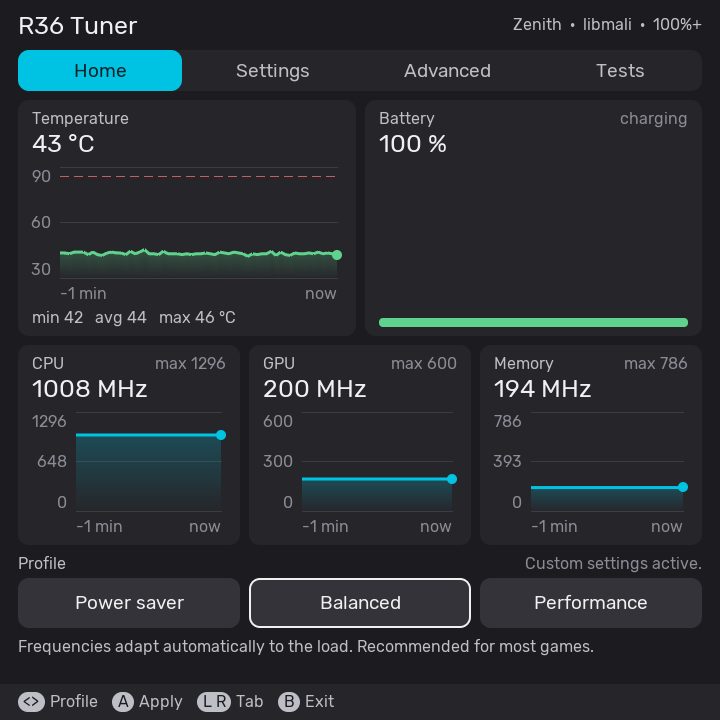
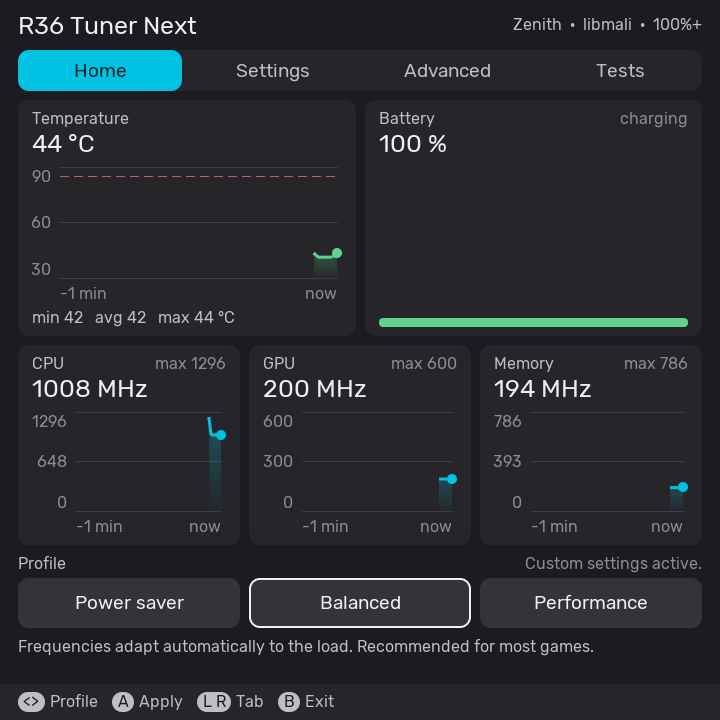
R36 Tuner Next: this image includes a new version that is not released yet; new Tuner screenshots (R36 Tuner Next header) and the Battery & performance menu with its row

diff --git a/README.md b/README.md
@@ -32,8 +32,8 @@ which is a fork of [ROCKNIX](https://github.com/ROCKNIX), developed and measured
   TechDweeb.
 - **Fast suspend:** the console sleeps in **2.3 s** and wakes in **4.3 s**.
 - **Battery screen:** charge, current use, history and what used the most.
-- **R36 Tuner Next** built in: CPU, GPU and RAM clocks, voltage curves, profiles, benchmarks and a stability test, with
-  live graphs. See [R36 Tuner Next](#r36-tuner-next).
+- **R36 Tuner Next** built in, in a **new version that is not released yet**: CPU, GPU and RAM clocks, voltage curves,
+  profiles, benchmarks and a stability test, with live graphs. See [R36 Tuner Next](#r36-tuner-next).
 - **Patched Panfrost (open GPU driver):** 39 % faster than stock Panfrost and close to Arm's libmali when you play.
   libmali stays the default. See [Panfrost vs libmali](#panfrost-vs-libmali).
 - **Performance mode** (off by default): GPU and RAM at full speed while a game runs; Mario Tennis goes from 19.3 to
@@ -46,7 +46,7 @@ which is a fork of [ROCKNIX](https://github.com/ROCKNIX), developed and measured
 
 ## Screenshots
 
-Taken on an R36 Ultra (720x720) running v0.2.0.
+Taken on an R36 Ultra (720x720) running v0.2.0 and v0.2.1.
 
 **zfront: Zenith Minimal and Zenith Next**
 
@@ -59,7 +59,7 @@ Taken on an R36 Ultra (720x720) running v0.2.0.
 <tr>
 <td align="center"><img src="docs/images/zfront-menu.png" width="280"/><br/><sub>Main menu</sub></td>
 <td align="center"><img src="docs/images/zfront-battery.png" width="280"/><br/><sub>Battery and power</sub></td>
-<td align="center"><img src="docs/images/zfront-battery-performance.png" width="280"/><br/><sub>Battery &amp; performance settings</sub></td>
+<td align="center"><img src="docs/images/zfront-battery-performance.png" width="280"/><br/><sub>Battery &amp; performance settings, with R36 Tuner Next</sub></td>
 </tr>
 <tr>
 <td align="center"><img src="docs/images/zfront-next-light.png" width="280"/><br/><sub>Zenith Next, light</sub></td>
@@ -148,7 +148,14 @@ Measured on an **R36 Ultra**, one to three runs per point:
 
 ### R36 Tuner Next
 
-R36 Tuner Next opens from the Tools menu. Its home page shows live graphs of
+The Tuner in this image is **a new version of R36 Tuner Next that has not been released yet**: the public repository
+([zenmode-adri/r36-tuner-next](https://github.com/zenmode-adri/r36-tuner-next)) is still at v2.0. Since v2.0 the interface
+was rewritten as one program (33 files changed, about 6,300 lines added and 3,650 removed): a grid layout checked at every
+supported resolution, live graphs with a scale and the minimum, average and maximum, one voltage-curve editor per
+component, recovery steps for a PC with the SD card, and a safety net so that a power cut, a failed write or a modified
+device tree no longer leave the console unprotected after a voltage change.
+
+R36 Tuner Next opens from the Tools menu (and from `Battery & performance`). Its home page shows live graphs of
 temperature and of the CPU, GPU and RAM clocks, with three profiles (Power saver, Balanced, Performance). Settings sets
 the governors, the maximum clocks, turbo and the performance mode for games. Advanced edits the CPU and GPU voltage
 curves and the memory steps, restores the factory values and explains how to recover from a PC. Tests runs a stability

diff --git a/CHANGELOG.md b/CHANGELOG.md
@@ -15,6 +15,8 @@ Small update on v0.2.0. Its release tag is the build date, `20261112`, which is 
 
 ### Changes
 
+- The image includes a **new version of R36 Tuner Next that is not released yet** (the public repository is still at
+  v2.0; the interface was rewritten since). The Tuner screenshots in the README are from this build.
 - **Appearance options** (selector style, title alignment, list text case) apply as soon as you pick one, without
   restarting the front-end.
 - **R36 Tuner Next** is listed with the performance rows in `Battery & performance` (when the Tuner is installed), and
@@ -47,7 +49,8 @@ what the built-in updater looks for.
   by itself.
 - **Performance mode** (GPU and RAM at full speed while a game runs) is in the image, **off by default**.
 - **RAM at 786 MHz** on the models that have that step (R36 Ultra and the boards listed below).
-- **R36 Tuner Next** built in, with undervolt and a fix for the hard freezes around a 480 MHz GPU clock.
+- **R36 Tuner Next** built in, in a **new version that is not released yet** (the public repository is at v2.0), with
+  undervolt and a fix for the hard freezes around a 480 MHz GPU clock.
 - **Send files from your phone** through a web page (off by default, 4-digit PIN, QR code to scan).
 - **Zenith DTB Selector** to pick the right screen/device tree for your console from Windows, Linux or macOS.
 

diff --git a/.github/release-body.md b/.github/release-body.md
@@ -8,6 +8,10 @@ Everything that changed, with the measurements: [CHANGELOG.md](https://github.co
 > **Beta.** Tested on the **R36 Ultra** and the **R36S**, the two consoles we have. Other RK3326 models use the same
 > image but have not been tried: treat them as beta too.
 
+**R36 Tuner Next:** the image includes a new version that is not released yet (the public repository is still at v2.0):
+a rewritten interface with live graphs, one voltage-curve editor per component, a stability test and a boot safety net for
+voltage changes. Screenshots in the [README](https://github.com/zenmode-adri/Zenith#r36-tuner-next).
+
 ## What's new since v0.2.0
 - **Appearance options** (selector style, title alignment, list text case) apply as soon as you pick one, without
   restarting the front-end.
